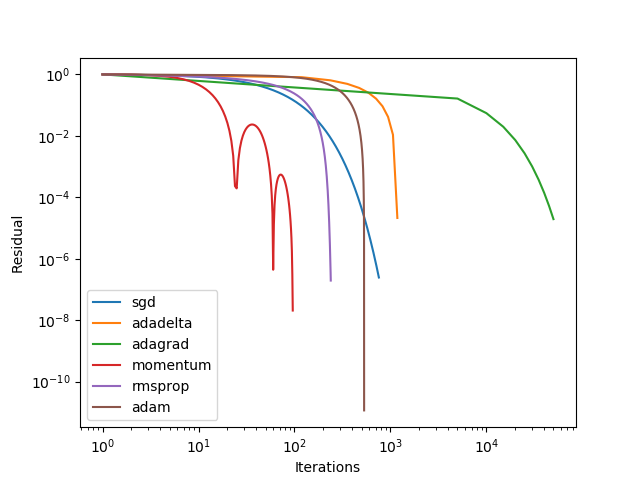
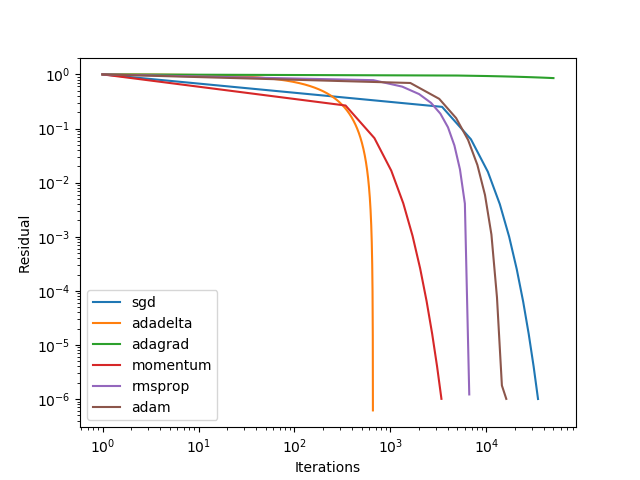
corrected gradient calculation

diff --git a/optimizers/test_optimizer.py b/optimizers/test_optimizer.py
@@ -7,21 +7,29 @@ https://en.wikipedia.org/wiki/Test_functions_for_optimization
 import os
 import glob
 import shutil
+import subprocess
 import numpy as np
 from matplotlib import pyplot as plt
 import optimizer
 
-np.random.seed(0)
-for ff in glob.glob('*.dat'):
-    os.remove(ff)
 
-TOLERANCE = 1e-3
-LEARNING_RATE = 5e-3
-# See the first few methods for available test functions
-# This can be increased to higher dimensions
-X0 = np.random.random(1)
-X0 = X0 / np.linalg.norm(X0)
-print(X0)
+def main():
+    """ The main routine """
+    np.random.seed(0)
+    for ff in glob.glob('*.dat'):
+        os.remove(ff)
+
+    tolerance = 1e-6
+    learning_rate = 1e-4
+    function = circle
+    # See the first few methods for available test functions
+    # x0 can be increased to higher dimensions
+    x0 = np.random.random(3)
+    x0 = x0 / np.linalg.norm(x0)
+
+    test_all(x0, function, learning_rate, tolerance)
+    plot_history()
+    subprocess.call(['open', 'convergence_history.png'])
 
 
 def rosenbrock(x):
@@ -39,10 +47,19 @@ def circle(x):
     return np.sum(x ** 2)
 
 
-def test_all():
+def test_all(x0, function, learning_rate, tolerance):
+    """ Test all the algorithms
+
+    Args:
+        x0: The initial point
+        function: The test function
+        learning_rate: The learning rate
+        tolerance: The tolerance on the gradient
+
+    """
     for algorithm in ['sgd', 'momentum', 'adam', 'rmsprop', 'adagrad', 'adadelta']:
-        opt = optimizer.Optimizer(x0=X0, function=circle, method=algorithm,
-                                  learning_rate=LEARNING_RATE, error_threshold=TOLERANCE)
+        opt = optimizer.Optimizer(x0=x0, function=function, method=algorithm,
+                                  learning_rate=learning_rate, error_threshold=tolerance)
         opt.solve()
         shutil.move('history.dat', algorithm + '.dat')
 
@@ -71,5 +88,4 @@ def plot_history():
 
 
 if __name__ == "__main__":
-    test_all()
-    plot_history()
+    main()

diff --git a/optimizers/optimizer.py b/optimizers/optimizer.py
@@ -18,7 +18,9 @@ class Optimizer:
         Args:
             x0: The initial point
             function: The function to optimize
-            method: The optimization method 
+            method: The optimization method, optional
+            error_threshold: The error threshold, optional
+            learning_rate: The learning rate, optional
         """
         self.x0 = x0
         self.function = function
@@ -57,7 +59,7 @@ class Optimizer:
 
         value0 = value
         timeout = False
-        while np.linalg.norm(gradient) > self.error_threshold:
+        while np.linalg.norm(value) > self.error_threshold:
             count += 1
             value, gradient = self.evaluate_function(next_point)
             next_point = self.method(next_point, gradient, count)
@@ -85,11 +87,13 @@ class Optimizer:
             A tuple: (function value, gradient) 
         """
 
-        rand = np.random.random(len(x))
-        delta = 1e-6 * rand / np.linalg.norm(rand)
-
         value = self.function(x)
-        gradient = (self.function(x + delta) - value) / delta
+        gradient = np.zeros_like(x)
+        for ii in range(len(gradient)):
+            delta = np.zeros_like(x)
+            step = 1e-12
+            delta[ii] = step
+            gradient[ii] = (self.function(x + delta) - value) / step
         return value, gradient
 
     def sgd(self, x, gradient, learning_rate):
